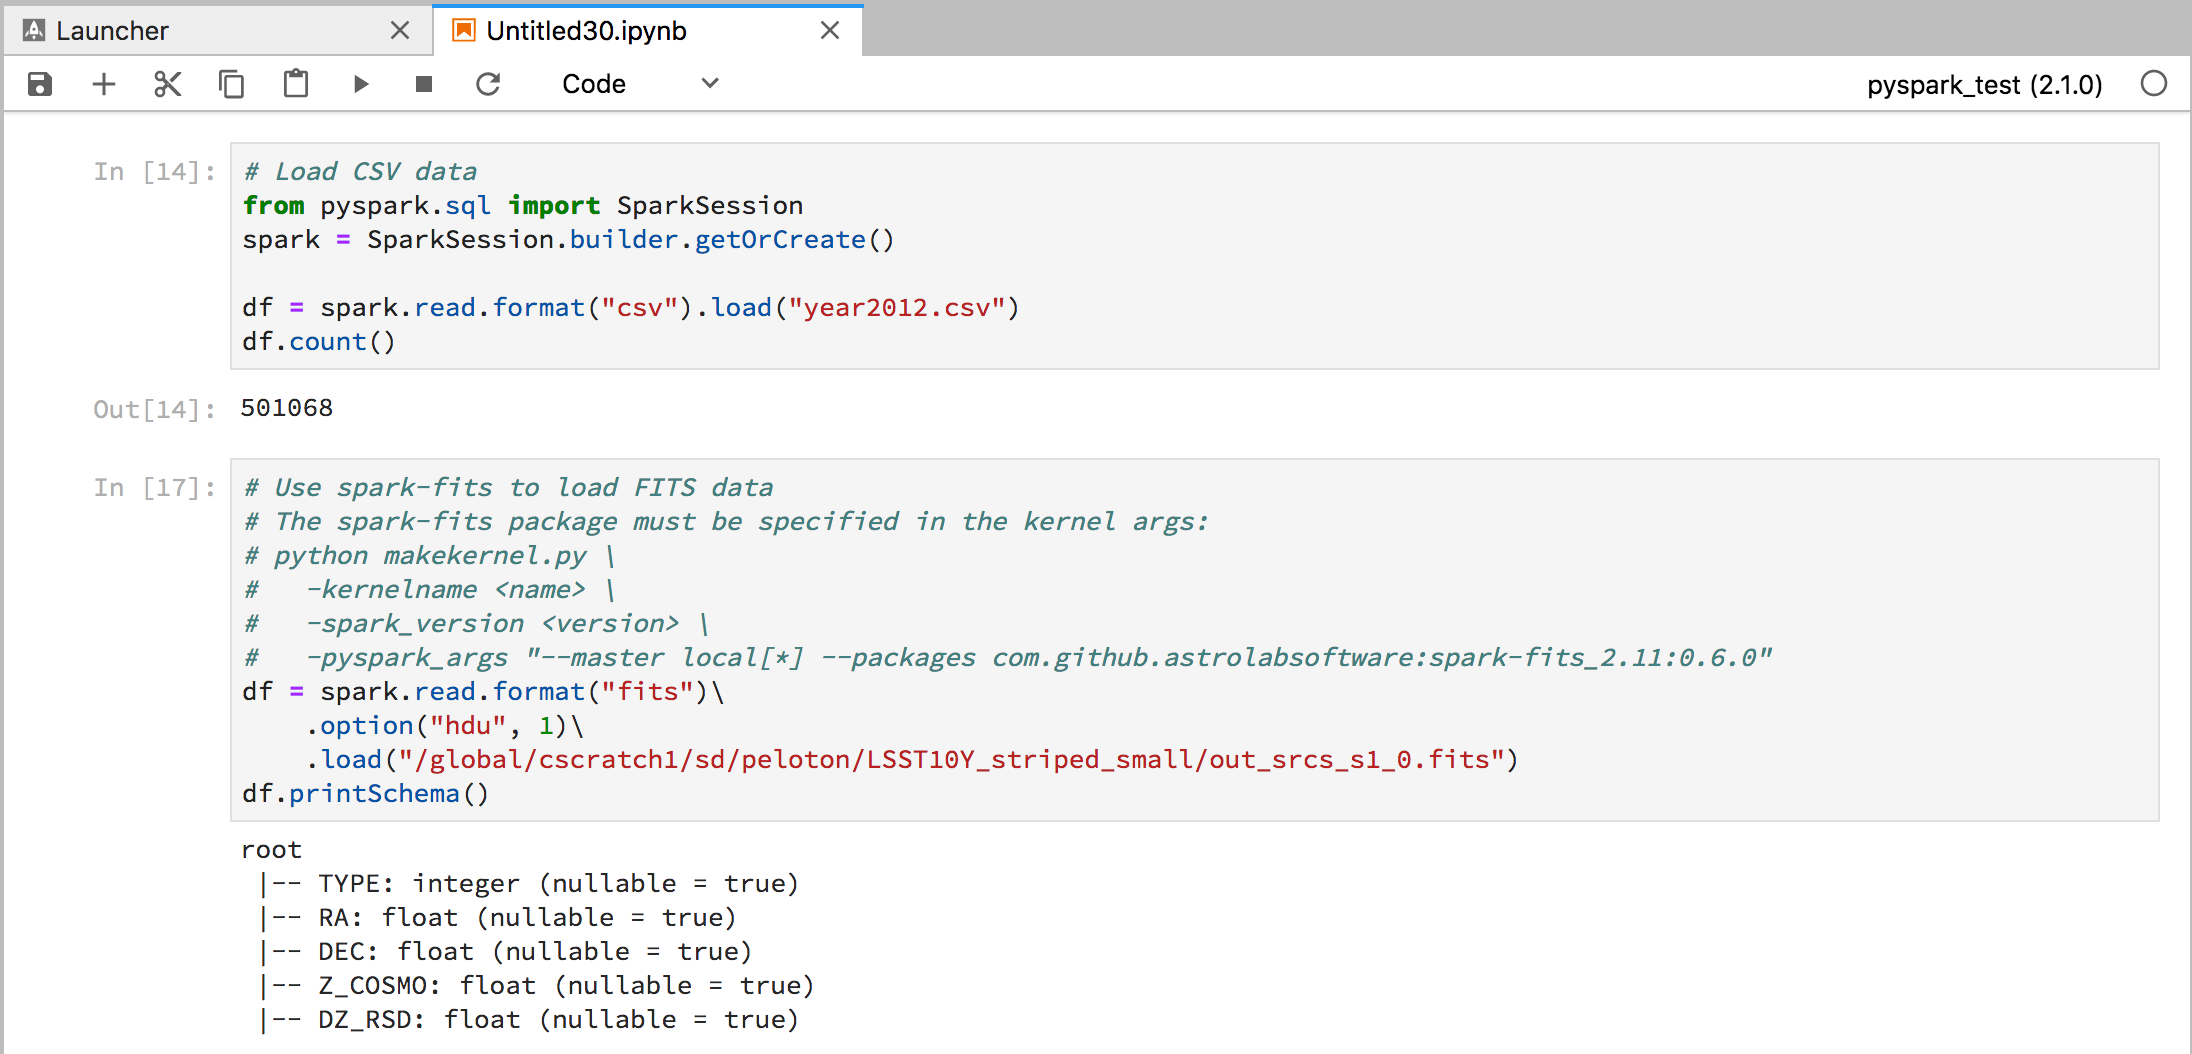
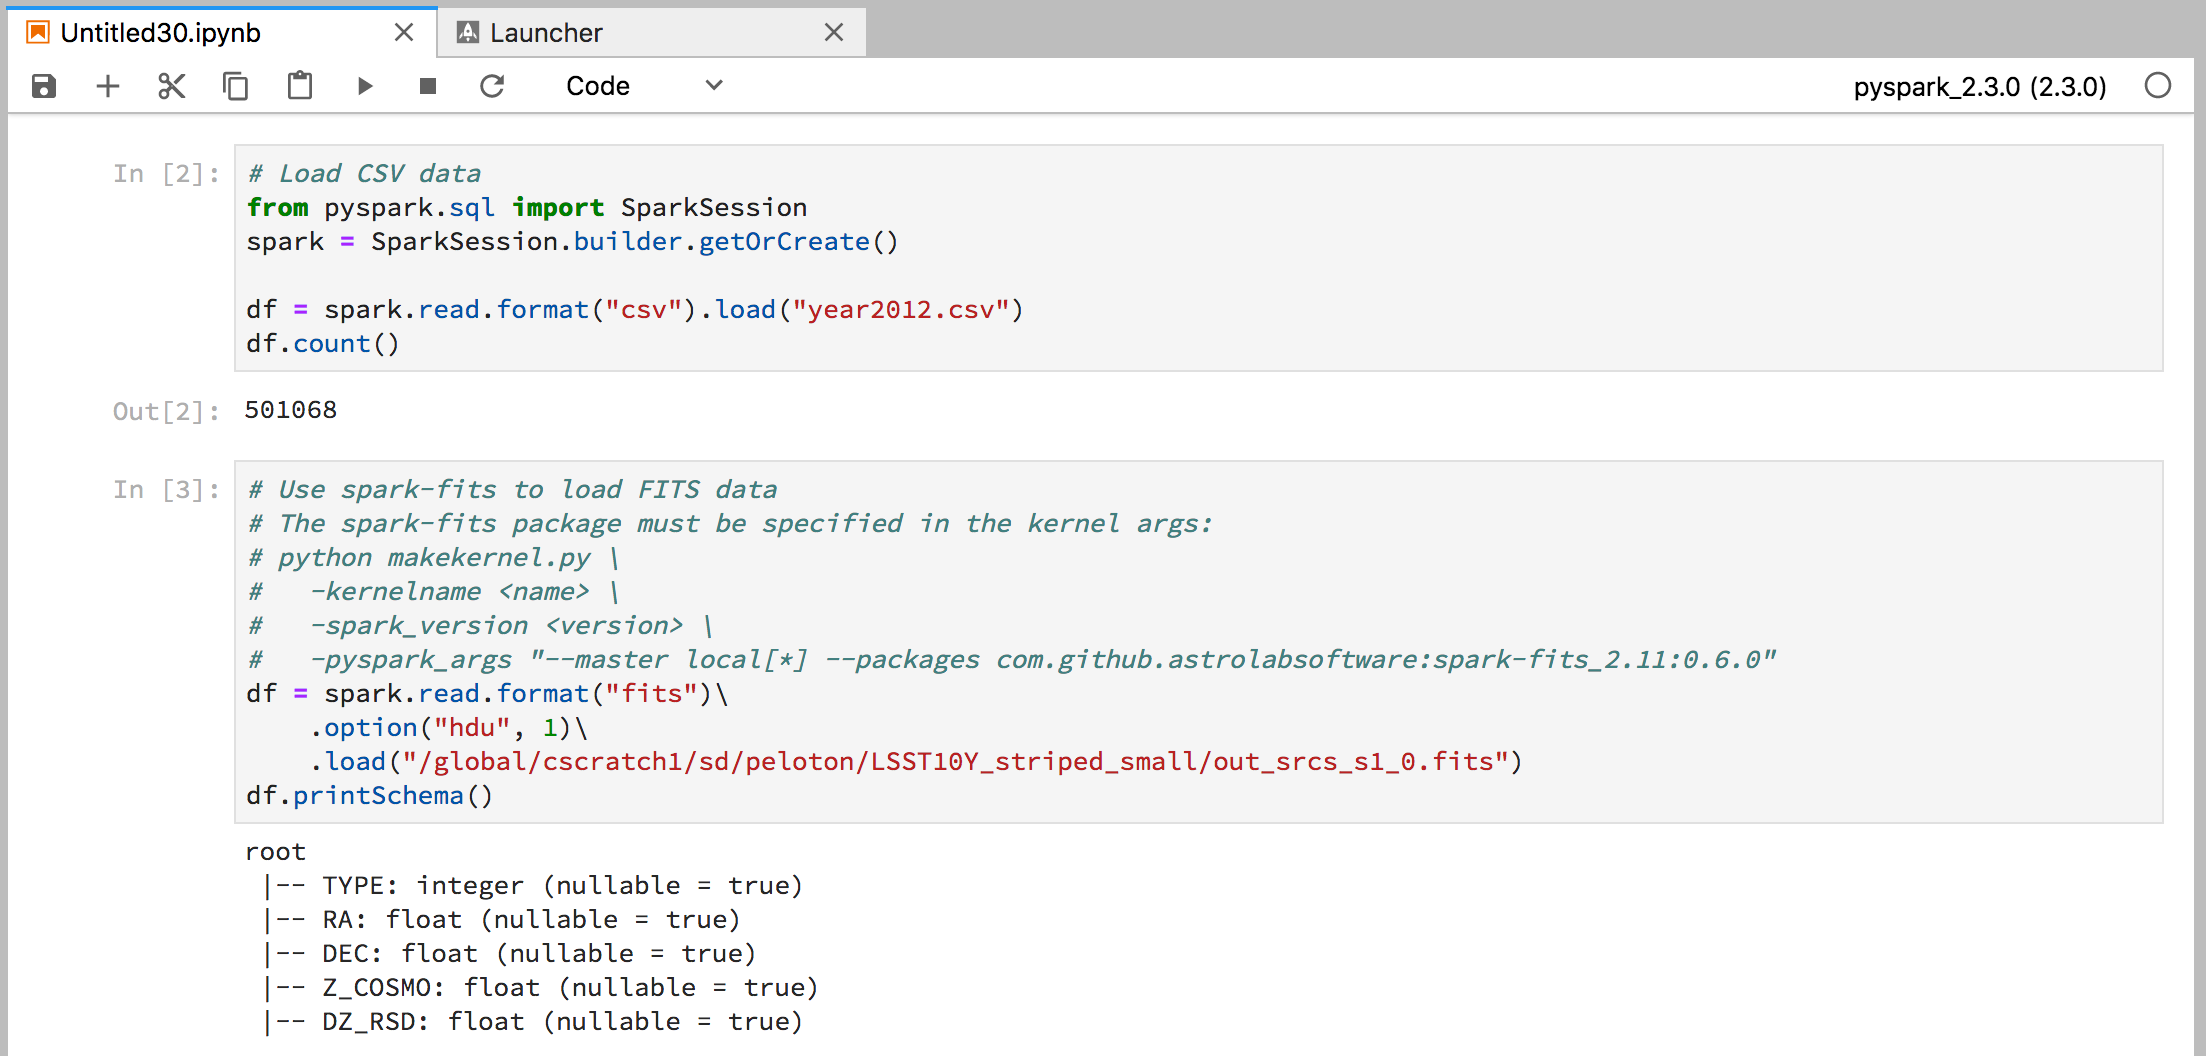
Update the README with recent change

diff --git a/README.md b/README.md
@@ -4,14 +4,46 @@
 
 Create custom jupyter kernels for using pyspark notebooks at NERSC.
 
-Log on on Cori@NERSC, and run the script makekernel.py to create a kernel
+Log on Cori@NERSC, and run the script makekernel.py to create a kernel
 
-```bash
-python makekernel.py -kernelname <str> -spark_version <version> -pyspark_args <args>
+```
+$ python makekernel.py --help
+
+usage: makekernel.py [-h] -kernelname KERNELNAME
+                     [-spark_version SPARK_VERSION]
+                     [-pyspark_args PYSPARK_ARGS] [--local]
+
+Create Jupyter kernels for using Apache Spark at NERSC
+
+optional arguments:
+  -h, --help            show this help message and exit
+  -kernelname KERNELNAME
+                        Name of the Jupyter kernel to be displayed
+  -spark_version SPARK_VERSION
+                        Version of Apache Spark. Available: 2.0.0, 2.1.0,
+                        2.3.0. Note that 2.0.0, and 2.1.0 are standard
+                        kernels, while 2.3.0 makes use of shifter to run.
+                        Default is 2.3.0.
+  -pyspark_args PYSPARK_ARGS
+                        Submission arguments for pyspark. See
+                        https://spark.apache.org/docs/latest/submitting-
+                        applications.html for more information. Default is "--
+                        master local[4]".
+  --local               If specified, kernel and startup scripts will be dump
+                        on the current working directory instead of the NERSC
+                        kernel folder. Default is False.
 ```
 
-Note that a startup script will be created, in order to load the Spark module
-and launch a Spark cluster before launching the notebook:
+### Apache Spark version 2.3.0+ (recommended)
+
+For Spark version 2.3.0+, Spark is ran inside of Shifter, and the startup file is not
+necessary. The kernel will be stored at `$HOME/.ipython/kernels/`.
+In addition, the directory `/global/cscratch1/sd/<user>/tmpfiles` will be created (if not) to store temporary files used by Spark.
+
+### Apache Spark version <= 2.1.0 (old)
+
+For Spark version <= 2.1.0, a startup script will be created,
+in order to load the Spark module and launch a Spark cluster before launching the notebook:
 
 ```bash
 #!/bin/bash
@@ -20,20 +52,16 @@ start-all.sh
 /usr/common/software/python/3.5-anaconda/bin/python -m ipykernel $@
 ```
 
-The kernel will be stored at `$HOME/.ipython/kernels/`.
-The following variables will be set:
+The kernel and the startup scripts will be stored at `$HOME/.ipython/kernels/`.
+We support only Python 3.5 for the moment.
 
-```bash
-"SPARK_HOME": "/path/to/spark",
-"PYSPARK_SUBMIT_ARGS": <pyspark_args>,
-"PYTHONSTARTUP": "/path/to/spark/python/pyspark/shell.py",
-"PYTHONPATH": "/path/to/spark/python/lib/py4j-0.10.4-src.zip:/path/to/spark/python",
-"PYSPARK_PYTHON": "/usr/common/software/python/3.5-anaconda/bin/python",
-"PYSPARK_DRIVER_PYTHON": "ipython3"
-```
+### Pyspark arguments
 
-You can choose Spark version 2.0.0 or 2.1.0 (later version are dealt with shifter
-and support will come later). We support only Python 3.5 for the moment.
+Pyspark most common arguments include:
+
+- `--master local[ncpu]`: the number of CPU to use.
+- `--conf spark.eventLog.enabled=true`, `--conf spark.eventLog.dir=<file:/dir>`, `--conf spark.history.fs.logDirectory=<file:/dir`: store the logs. By default Spark will put event logs in `file:/dir = file://$SCRATCH/spark/spark_event_logs`, and you will need to create this directory the very first time you start up Spark.
+- `--packages ...`: Any package you want to use. For example, you can try out the great [spark-fits](https://github.com/astrolabsoftware/spark-fits) connector using `--packages com.github.astrolabsoftware:spark-fits_2.11:0.6.0`!
 
 ## JupyterLab: play with Apache Spark
 
@@ -43,3 +71,44 @@ the kernel you just created:
 <p align="center"><img width="600" src="https://github.com/astrolabsoftware/spark-kernel-nersc/raw/master/pic/load_kernel.png"/> </p>
 
 <p align="center"><img width="600" src="https://github.com/astrolabsoftware/spark-kernel-nersc/raw/master/pic/spark_notebook.png"/> </p>
+
+## Known issue
+
+When switching kernels, and re-running a notebook, we often get the following error:
+
+```
+Py4JJavaError                             Traceback (most recent call last)
+/usr/local/bin/spark-2.3.0/python/pyspark/sql/utils.py in deco(*a, **kw)
+     62         try:
+---> 63             return f(*a, **kw)
+     64         except py4j.protocol.Py4JJavaError as e:
+
+/usr/local/bin/spark-2.3.0/python/lib/py4j-0.10.6-src.zip/py4j/protocol.py in 
+get_return_value(answer, gateway_client, target_id, name)
+    319                     "An error occurred while calling {0}{1}{2}.\n".
+--> 320                     format(target_id, ".", name), value)
+    321             else:
+
+Py4JJavaError: An error occurred while calling o83.load.
+: org.apache.spark.sql.AnalysisException: java.lang.RuntimeException: 
+java.lang.RuntimeException: Unable to instantiate 
+org.apache.hadoop.hive.ql.metadata.SessionHiveMetaStoreClient;
+	at 
+org.apache.spark.sql.hive.HiveExternalCatalog.withClient(
+HiveExternalCatalog.scala:106)
+	at 
+	
+	... (long... very long)
+	
+AnalysisException: 'java.lang.RuntimeException: java.lang.RuntimeException:
+Unable to instantiate 
+org.apache.hadoop.hive.ql.metadata.SessionHiveMetaStoreClient;'
+```
+
+Just go to the folder where the notebook is running, and delete the temporary folder:
+
+```
+rm -r metastore_db
+```
+
+Then restart your kernel, and all should be fine.
